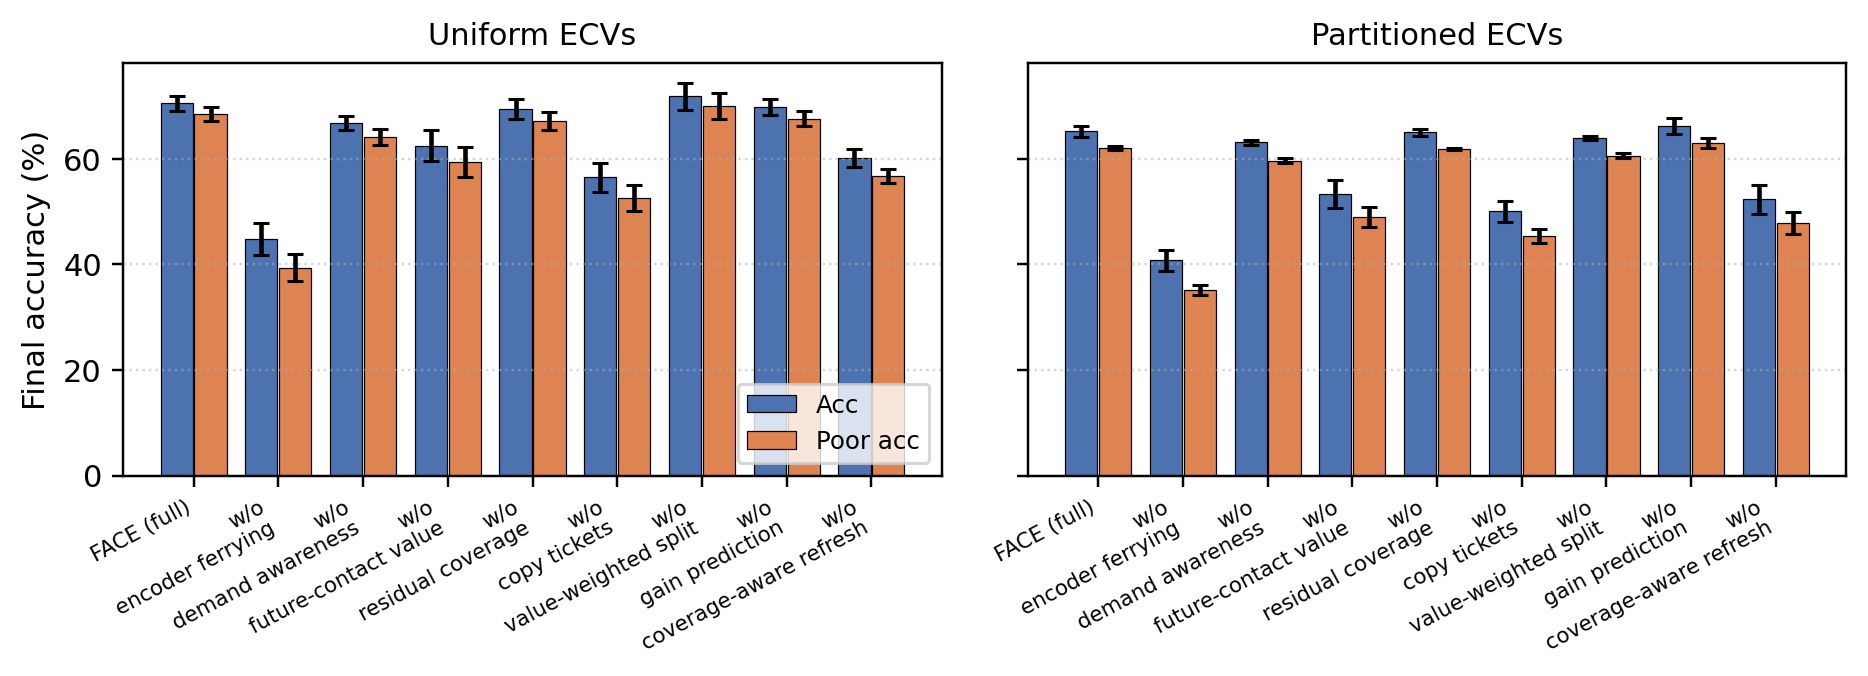
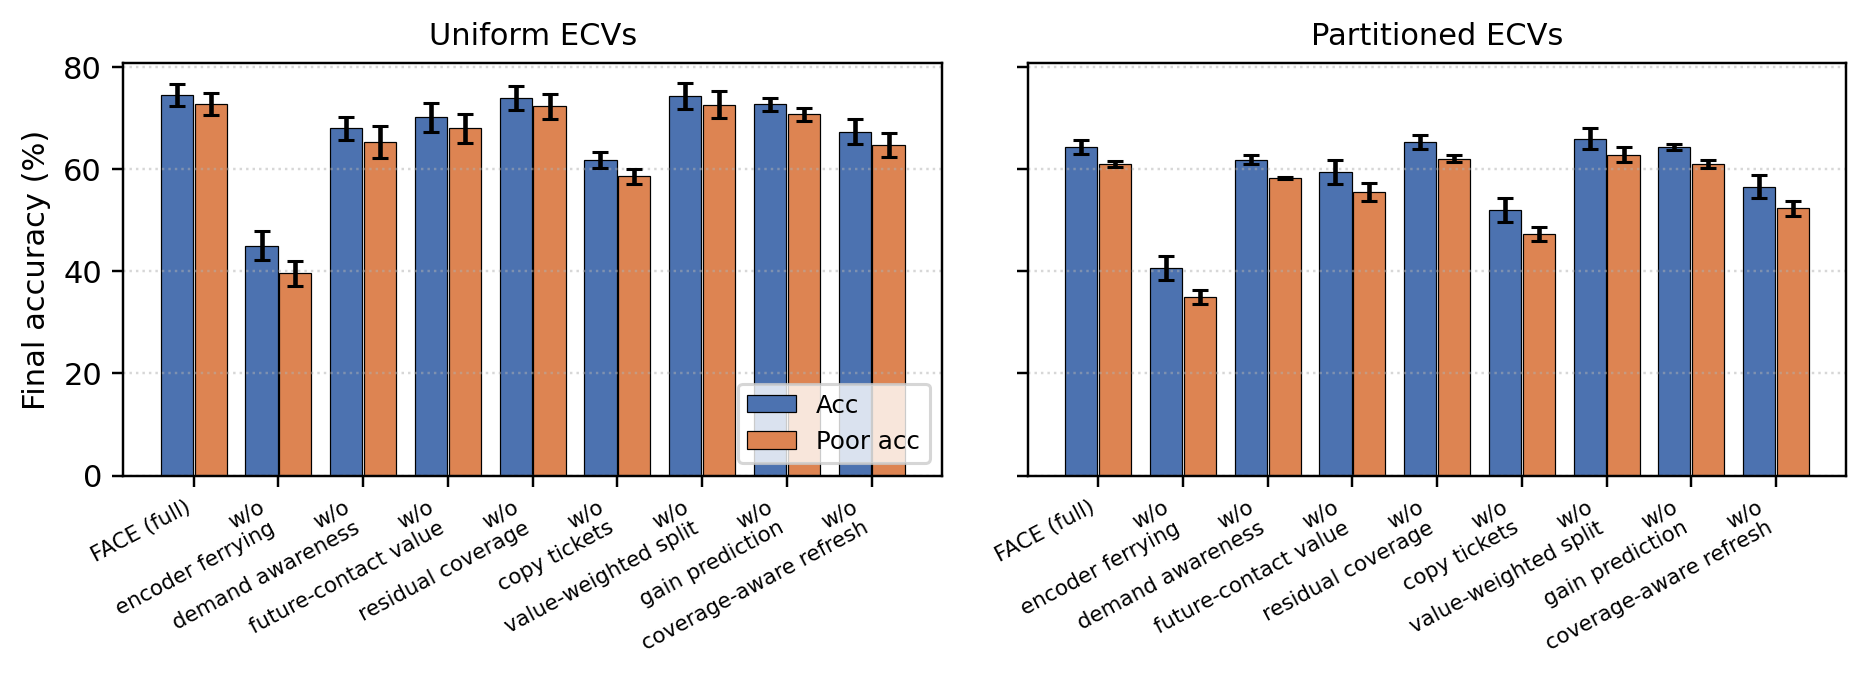
Final-code 3-seed ablation: uniform scenario table, all components positive

diff --git a/new_result/tab_face_ablation.tex b/new_result/tab_face_ablation.tex
@@ -13,16 +13,16 @@
 \hline
 \textsc{Variant} & \textsc{Acc} & \textsc{Poor Acc} & \textsc{Comm. (MB/rd)} \\
 \hline
-\textbf{FACE (full)} & 65.2 $\pm$ 1.0 & 62.0 $\pm$ 0.3 & 178 \\
+\textbf{FACE (full)} & \textbf{74.4 $\pm$ 2.1} & 72.7 $\pm$ 2.1 & 146 \\
 \hline
-w/o encoder ferrying ($\mathcal A_{ij}(t)$ own versions only) & 40.7 $\pm$ 1.9 & 35.1 $\pm$ 1.0 & 48 \\
-w/o demand awareness ($\widehat v_{j,x}\!\equiv\!\mathrm{const}$ in \eqref{eq:transfer_advantage}) & 63.1 $\pm$ 0.4 & 59.7 $\pm$ 0.5 & 193 \\
-w/o future-contact value ($F_{a,x}\!\equiv\!0$ in \eqref{eq:forwarding_potential}) & 53.4 $\pm$ 2.7 & 49.0 $\pm$ 1.9 & 110 \\
-w/o residual coverage ($\Omega_{z,x}^{(h)}\!\equiv\!1$ in \eqref{eq:residual_coverage}) & 65.0 $\pm$ 0.6 & 61.9 $\pm$ 0.3 & 179 \\
-w/o copy tickets ($K_x\!=\!\infty$ in \eqref{eq:ticket_update}) & 50.0 $\pm$ 2.0 & 45.3 $\pm$ 1.3 & 55 \\
-w/o value-weighted split ($g_{ijx}\!=\!1$ in \eqref{eq:ticket_split}) & 63.9 $\pm$ 0.4 & 60.6 $\pm$ 0.4 & 188 \\
-w/o gain prediction (mean bandit for \eqref{eq:predicted_gain}) & \textbf{66.2 $\pm$ 1.5} & 63.0 $\pm$ 0.9 & 198 \\
-w/o coverage-aware refresh (LRU replaces \eqref{eq:cache_refresh}) & 52.3 $\pm$ 2.8 & 47.9 $\pm$ 2.1 & 95 \\
+w/o encoder ferrying ($\mathcal A_{ij}(t)$ own versions only) & 45.0 $\pm$ 2.8 & 39.6 $\pm$ 2.5 & 29 \\
+w/o demand awareness ($\widehat v_{j,x}\!\equiv\!\mathrm{const}$ in \eqref{eq:transfer_advantage}) & 68.0 $\pm$ 2.3 & 65.3 $\pm$ 3.1 & 190 \\
+w/o future-contact value ($F_{a,x}\!\equiv\!0$ in \eqref{eq:forwarding_potential}) & 70.1 $\pm$ 2.8 & 68.0 $\pm$ 2.8 & 94 \\
+w/o residual coverage ($\Omega_{z,x}^{(h)}\!\equiv\!1$ in \eqref{eq:residual_coverage}) & 73.9 $\pm$ 2.4 & 72.2 $\pm$ 2.4 & 143 \\
+w/o copy tickets ($K_x\!=\!\infty$ in \eqref{eq:ticket_update}) & 61.8 $\pm$ 1.6 & 58.6 $\pm$ 1.4 & 45 \\
+w/o value-weighted split ($g_{ijx}\!=\!1$ in \eqref{eq:ticket_split}) & 74.3 $\pm$ 2.6 & 72.6 $\pm$ 2.7 & 151 \\
+w/o gain prediction (mean bandit for \eqref{eq:predicted_gain}) & 72.7 $\pm$ 1.3 & 70.7 $\pm$ 1.3 & 139 \\
+w/o coverage-aware refresh (LRU replaces \eqref{eq:cache_refresh}) & 67.3 $\pm$ 2.4 & 64.7 $\pm$ 2.4 & 88 \\
 \hline
 \end{tabular}
 \vspace{-1.5mm}

diff --git a/sim/face_abl_table.py b/sim/face_abl_table.py
@@ -61,10 +61,10 @@ def _cell(rows, idx, pct=True, best=None):
     return txt, m
 
 
-def make(log="results/face_abl_part.log",
+def make(log="results/face_abl_uniform.log",
          out_path="new_result/tab_face_ablation.tex"):
-    """Single-scenario ablation table (region-partitioned ECV placement,
-    the Sec. II motivation setting)."""
+    """Single-scenario ablation table (uniform ECV placement, matching the
+    main-comparison setup)."""
     res = _parse(log)
     os.makedirs(os.path.dirname(out_path), exist_ok=True)
     seeds_note = sorted({len(v) for v in res.values()})